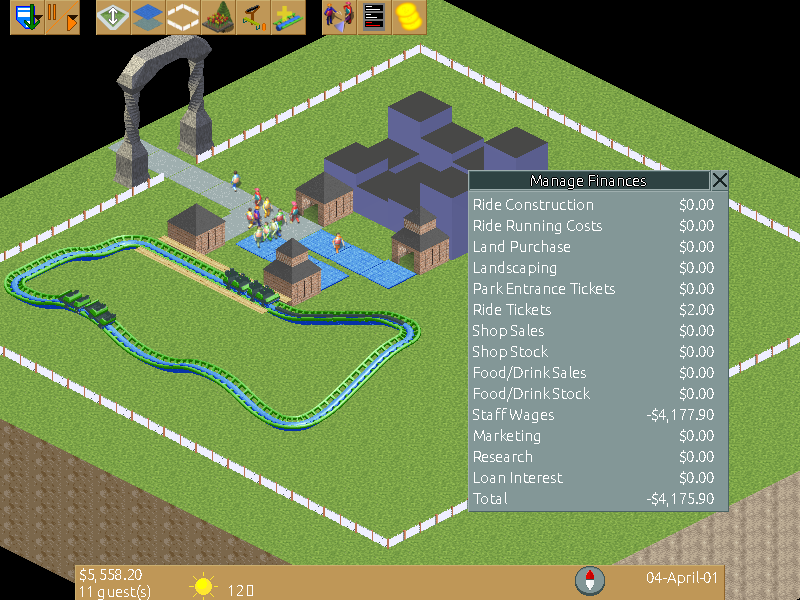
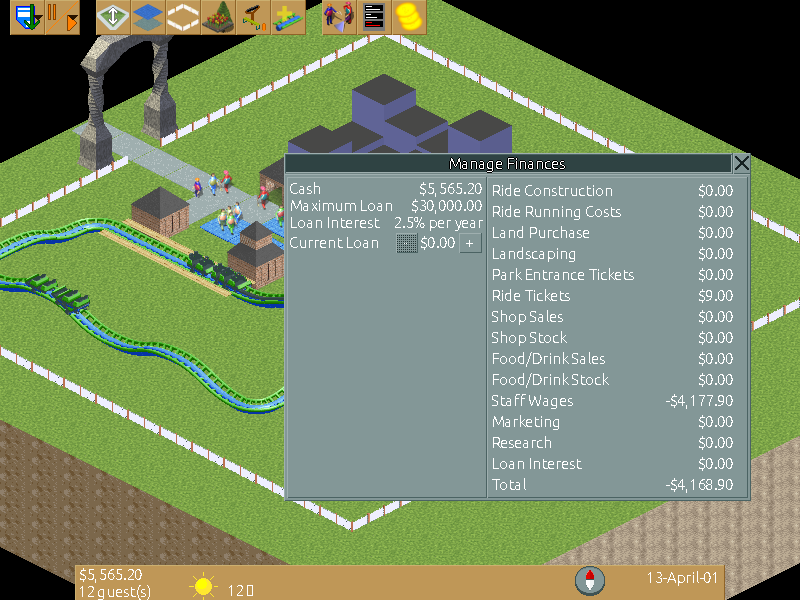
Update manual

diff --git a/docs/manual.html b/docs/manual.html
@@ -586,8 +586,9 @@
 					<script>create_linkified_header('h3', 'manual', 'finances', 'Finances')</script>
 					<p>
 						The <emp>Finances</emp> button in the top toolbar shows you details
-						about your monthly earnings and spendings. Administrative controls, a
-						history, and further statistics such as park value are not yet implemented.
+						about your monthly earnings and spendings. You can also take and repay loans here.
+						Other controls such as marketing and research, a history,
+						and further statistics such as park value are not yet implemented.
 					</p>
 
 				</div><div>

diff --git a/src/finances_gui.cpp b/src/finances_gui.cpp
@@ -184,7 +184,6 @@ void FinancesGui::OnClick(WidgetNumber widget, const Point16 &pos)
 	}
 }
 
-
 /** Open the finances window (or if it is already opened, highlight and raise it). */
 void ShowFinancesGui()
 {
